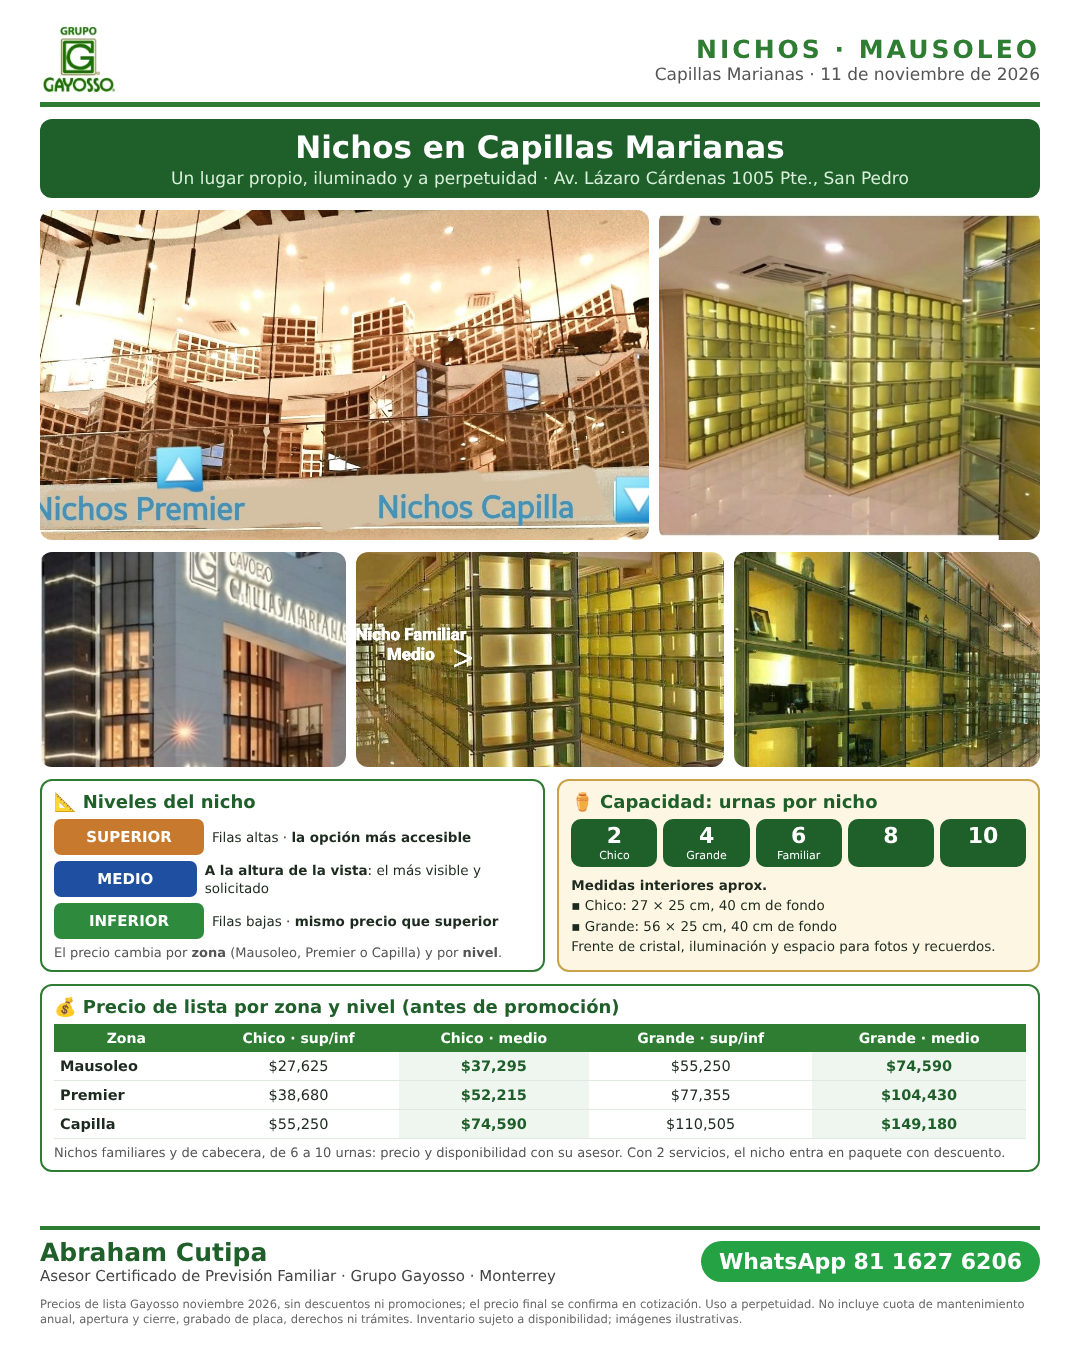
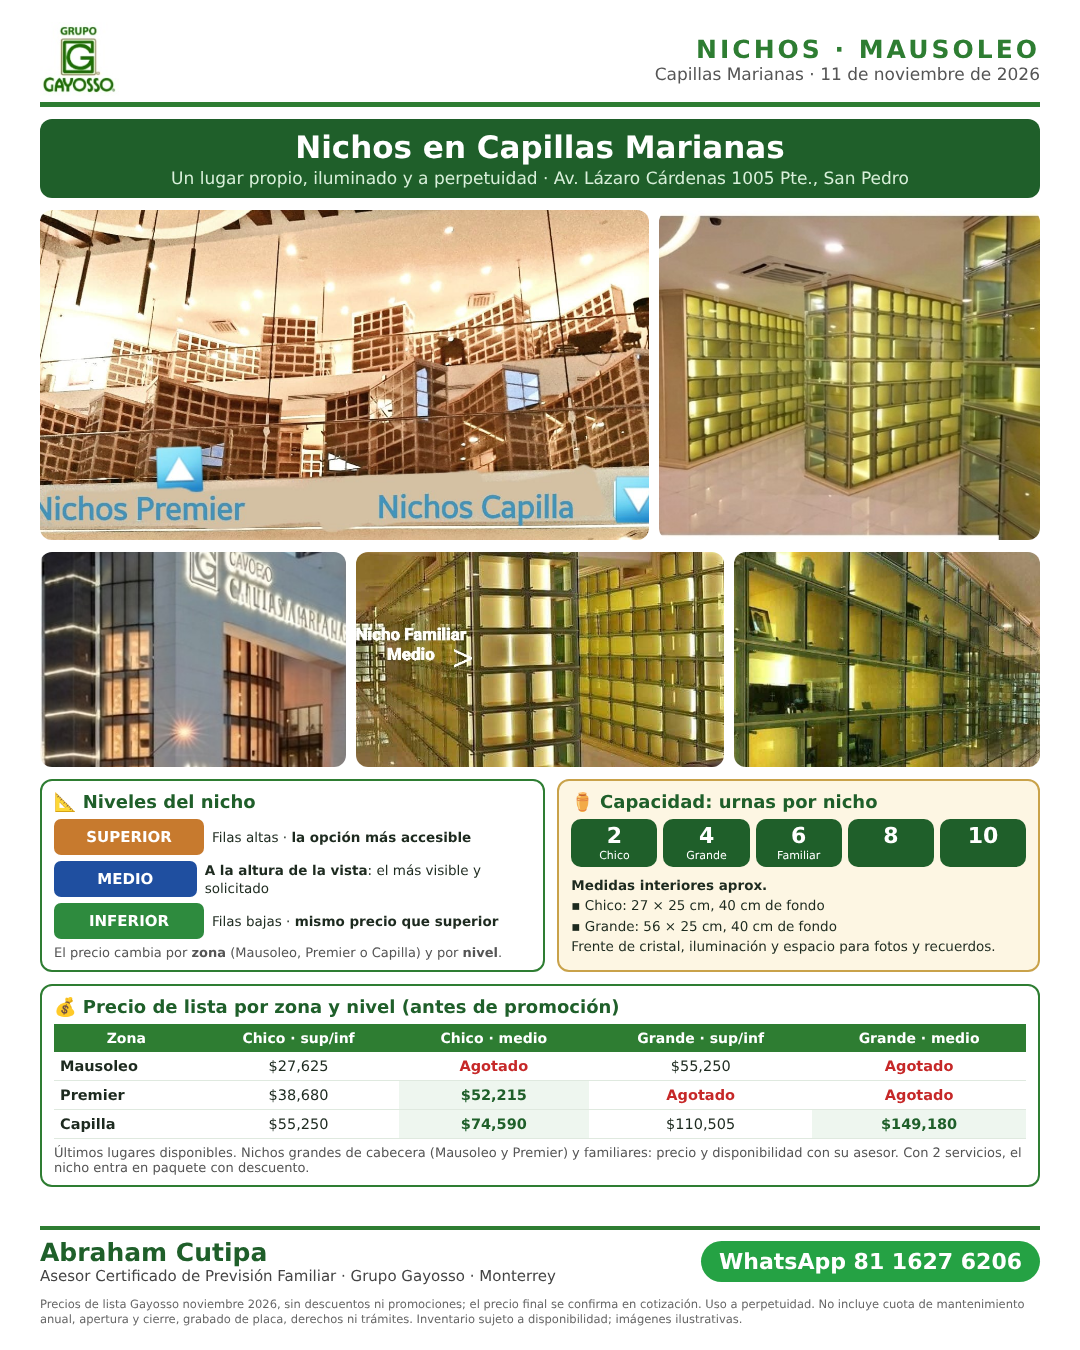
Marianas: nichos agotados confirmados e imagen de niveles actualizada
Claude-Session: https://claude.ai/code/session_01PccRGVGwaaPKDitcWkgoNs

Changed region(s): [[0.0306, 0.7778, 0.9472, 0.8711], [0.4278, 0.7778, 0.4889, 0.8089]]

diff --git a/propuesta/niveles_nichos_marianas.html b/propuesta/niveles_nichos_marianas.html
@@ -45,10 +45,10 @@ table{width:100%;border-collapse:collapse;font-size:14.5px}th{background:#2e7d32
 </div>
 <div class="tb"><h3>💰 Precio de lista por zona y nivel (antes de promoción)</h3>
 <table><tr><th>Zona</th><th>Chico · sup/inf</th><th>Chico · medio</th><th>Grande · sup/inf</th><th>Grande · medio</th></tr>
-<tr><td>Mausoleo</td><td>$27,625</td><td class="med">$37,295</td><td>$55,250</td><td class="med">$74,590</td></tr>
-<tr><td>Premier</td><td>$38,680</td><td class="med">$52,215</td><td>$77,355</td><td class="med">$104,430</td></tr>
+<tr><td>Mausoleo</td><td>$27,625</td><td style="color:#c62828;font-weight:bold">Agotado</td><td>$55,250</td><td style="color:#c62828;font-weight:bold">Agotado</td></tr>
+<tr><td>Premier</td><td>$38,680</td><td class="med">$52,215</td><td style="color:#c62828;font-weight:bold">Agotado</td><td style="color:#c62828;font-weight:bold">Agotado</td></tr>
 <tr><td>Capilla</td><td>$55,250</td><td class="med">$74,590</td><td>$110,505</td><td class="med">$149,180</td></tr></table>
-<div class="note">Nichos familiares y de cabecera, de 6 a 10 urnas: precio y disponibilidad con su asesor. Con 2 servicios, el nicho entra en paquete con descuento.</div></div>
+<div class="note">Últimos lugares disponibles. Nichos grandes de cabecera (Mausoleo y Premier) y familiares: precio y disponibilidad con su asesor. Con 2 servicios, el nicho entra en paquete con descuento.</div></div>
 <div class="foot"><div><div class="n">Abraham Cutipa</div><div class="r">Asesor Certificado de Previsión Familiar · Grupo Gayosso · Monterrey</div></div><div class="w">WhatsApp 81 1627 6206</div></div>
 <div class="fine">Precios de lista Gayosso noviembre 2026, sin descuentos ni promociones; el precio final se confirma en cotización. Uso a perpetuidad. No incluye cuota de mantenimiento anual, apertura y cierre, grabado de placa, derechos ni trámites. Inventario sujeto a disponibilidad; imágenes ilustrativas.</div>
 </div></body></html>

diff --git a/CLAUDE.md b/CLAUDE.md
@@ -469,4 +469,4 @@ Plantillas de imagen: guardadas en el repo en `propuesta/` (render.js + logo.jpg
 - 2026-11-11: IMÁGENES DE NIVELES DE NICHOS (fotos del usuario): propuesta/niveles_nichos_marianas.html y niveles_nichos_nogalar.html. Marianas: zonas Premier (planta alta), Capilla (planta baja, junto a la capilla ecuménica) y Mausoleo; distribución "nueva etapa" por filas A–H: superior (A–C), medio (D–F), inferior (G–H); medidas interiores aprox. nicho chico 27 × 25 cm × 40 cm de fondo, grande 56 × 25 × 40 cm. Nogalar: Mausoleo piso 5, zonas Mausoleo y Premier, niveles sup/med/inf (medidas no confirmadas). Capacidades que maneja Gayosso: 2 (chico), 4 (grande), 6 (familiar), 8 y 10 urnas (cuáles productos son de 8 y 10: confirmar). Argumento: el nivel MEDIO (altura de la vista) es el más caro; superior el más accesible (en Marianas inferior = superior; en Nogalar inferior es intermedio).
 - 2026-11-11: CONFIRMADO NICHO SOLO Nogalar (Cotizador 11/11/2026, vigencia 30/11/2026, oficina MIN1; descuentos base por condición, sin promoción de paquete): SUPERIOR 827302: lista M036 $32,000 (36 × $889.60); D036 36 × $818.43 ($29,440, ahorro $2,560); P001 $25,600 (ahorro $6,400). MEDIO 827303: lista $43,205 (de la tabla, falta captura M036 para la mensualidad); D036 36 × $1,105.01 ($39,748.60, ahorro $3,456.40); P001 $34,564 (ahorro $8,641). Medio vs superior: +$286.58/mes (< $10 diarios) o +$8,964 de contado. Sin opción 48 meses por monto; enganche sí (pedir captura). Certificado vacacional en nicho solo: CONFIRMAR.
 - 2026-11-11: NICHO SOLO Nogalar, INFERIOR 827304 (Cotizador 11/11): lista M036 $37,599.99 (36 × $1,045.28); D036 $34,591.99 (mensualidad ~$961.66, derivada con el factor 0.0278 de las otras dos: confirmar); P001 $30,079.99 (ahorro $7,520). MEDIO confirmado lista 36 × $1,201.10. Al agregar GayossoMED (clave 826410) el cotizador lo cobra aparte: $1,455 de anualidad (contado): NO presentarlo como gratis en nicho solo. El usuario confirmó: nicho solo SÍ lleva certificado vacacional de obsequio y vigencia Buen Fin como estrategia. Imagen: propuesta/nicho_solo_nogalar_3niveles.html (orden por nivel: lista → contado → 36 meses; medio destacado).
-- 2026-11-11: NO DISPONIBLES en Mausoleo Capillas Marianas (inventario agotado, dato del usuario): 821965 nicho chico zona mausoleo niv. medio; 821967 nicho grande zona mausoleo niv. medio; 821964 nicho grande zona Premier sup/inf; 821962 nicho grande zona Premier niv. medio. Disponibles para 2 urnas: 821966 (mausoleo s/i $27,625), 821961 (Premier s/i $38,680), 821960 (Premier medio $52,215), 823357/823356 (capilla). Para 4 urnas: 821968 (mausoleo s/i $55,250), 823562/823550 (cabecera mausoleo s/i $71,825 / medio $96,965), 824278/824277 (cabecera Premier), 823358/823359 (capilla). Nivel medio 4 urnas más accesible en Marianas = cabecera mausoleo 823550 (confirmar que cabecera grande = 4 urnas). Alternativa: Nogalar grande medio 827306 $86,405 (más barato y con oferta de preventa).
+- 2026-11-11: AGOTADOS (CONFIRMADO por el usuario) en Mausoleo Capillas Marianas: 821965 nicho chico zona mausoleo niv. medio; 821967 nicho grande zona mausoleo niv. medio; 821964 nicho grande zona Premier sup/inf; 821962 nicho grande zona Premier niv. medio. Disponibles para 2 urnas: 821966 (mausoleo s/i $27,625), 821961 (Premier s/i $38,680), 821960 (Premier medio $52,215), 823357/823356 (capilla). Para 4 urnas: 821968 (mausoleo s/i $55,250), 823562/823550 (cabecera mausoleo s/i $71,825 / medio $96,965), 824278/824277 (cabecera Premier), 823358/823359 (capilla). Nivel medio 4 urnas más accesible en Marianas = cabecera mausoleo 823550 (confirmar que cabecera grande = 4 urnas). Alternativa: Nogalar grande medio 827306 $86,405 (más barato y con oferta de preventa).
